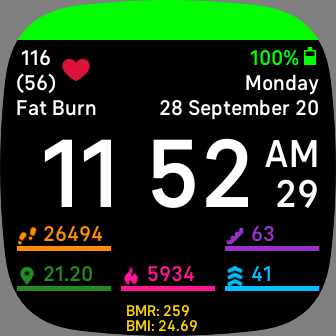
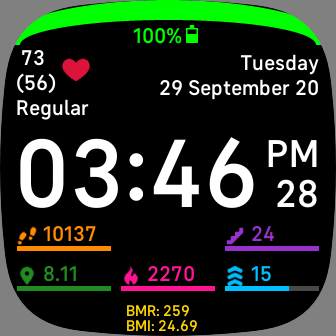
5.x layout update

diff --git a/src/SDK-5.x/resources/styles.css b/src/SDK-5.x/resources/styles.css
@@ -26,7 +26,7 @@
   text-length: 60;
   text-anchor: end;
   fill: white;
-  x: 100%-5%-200;
+  x: 100%-5%-195;
   y: 207;
   display: none;
 }
@@ -37,7 +37,7 @@
   text-length: 60;
   text-anchor: end;
   fill: white;
-  x: 100%-5%-175;
+  x: 100%-5%-170;
   y: 200;
   display: none;
 }
@@ -48,7 +48,7 @@
   text-length: 60;
   text-anchor: end;
   fill: white; 
-  x: 100%-5%-65;
+  x: 100%-5%-60;
   y: 207;
   display: none; 
 }
@@ -134,21 +134,25 @@
 
 #battery {
   display: none;
+  width: 50;
+  height: 20;
+  x:50%;
+  y:43;
 }
 
 .battery-icon {
   width: 18;
   height: 18;
-  x:-18;
+  x:15;
   y:-18;
 }
 
 #battery-percent {
-  text-anchor: end;
+  text-anchor: middle;
   font-size: 22;
   font-family: System-Bold;
   fill: white;
-  x: -20;
+  x: -10;
   y: 0;
   text-length: 10;
 }
@@ -159,7 +163,7 @@
 
 #day {
   x: 0;
-  y: 25;
+  y: 5;
   font-size: 22;
   text-anchor: end;
   font-family: System-Bold;
@@ -169,7 +173,7 @@
 
 #date {
   x: 0;
-  y: 50;
+  y: 30;
   font-size: 22;
   text-anchor: end;
   font-family: System-Bold;

diff --git a/src/SDK-5.x/app/hr.js b/src/SDK-5.x/app/hr.js
@@ -13,7 +13,7 @@ export var hrmRate = null;
 export var hrAnimated = true;
 export var hrAnimatedInterval = null;
 export var hrMonitoring = true;
-export let hrEl = document.getElementById("top-left");
+export let topLeftEl = document.getElementById("top-left");
 export let hrIconSystoleEl = document.getElementById("hr-icon-systole");
 export let hrIconDiastoleEl = document.getElementById("hr-icon-diastole");
 export let hrCountEl = document.getElementById("hr-count");
@@ -57,7 +57,7 @@ export function hideHr() {
    hrmRate = null;
    prevHrmRate = null;   
    stopHrAnimation();
-   hrEl.style.display = "none";
+   topLeftEl.style.display = "none";
 }
 
 export function animateHr() {   
@@ -102,7 +102,7 @@ export function drawHrm() {
       hrZoneEl.text = `${gettext(user.heartRateZone(hrmRate))}`;  
 
       if (!prevHrmRate) {
-        hrEl.style.display = "inline";    
+        topLeftEl.style.display = "inline";    
       }
       if (!hrAnimated && isHeartbeatAnimation) {
         clearInterval(hrAnimatedInterval);   

diff --git a/src/SDK-5.x/app/battery.js b/src/SDK-5.x/app/battery.js
@@ -16,9 +16,6 @@ export let colour50 = 'gold';
 export let colour75 = '#00FF00';
 //Battery - END
 
-export let root = document.getElementById('root')
-export const screenWidth = root.width
-
 export function setShowBatteryPercent(visibility) {
   batteryPercentBlock.style.display = (!visibility ? "none" : "inline");
 }
@@ -59,8 +56,9 @@ export function drawBat() {
   
   let batteryPercentage = Math.floor(level);
   batteryPercent.text = `${batteryPercentage}%`
-  let lineWidth = Math.floor(screenWidth*(batteryPercentage/100));
-  batteryLineFront.width = lineWidth;
+  
+  let sweep = Math.floor(180*(batteryPercentage/100));
+  batteryLineFront.sweepAngle = sweep;
   
   if (batteryPercentage >= 75)
   {
